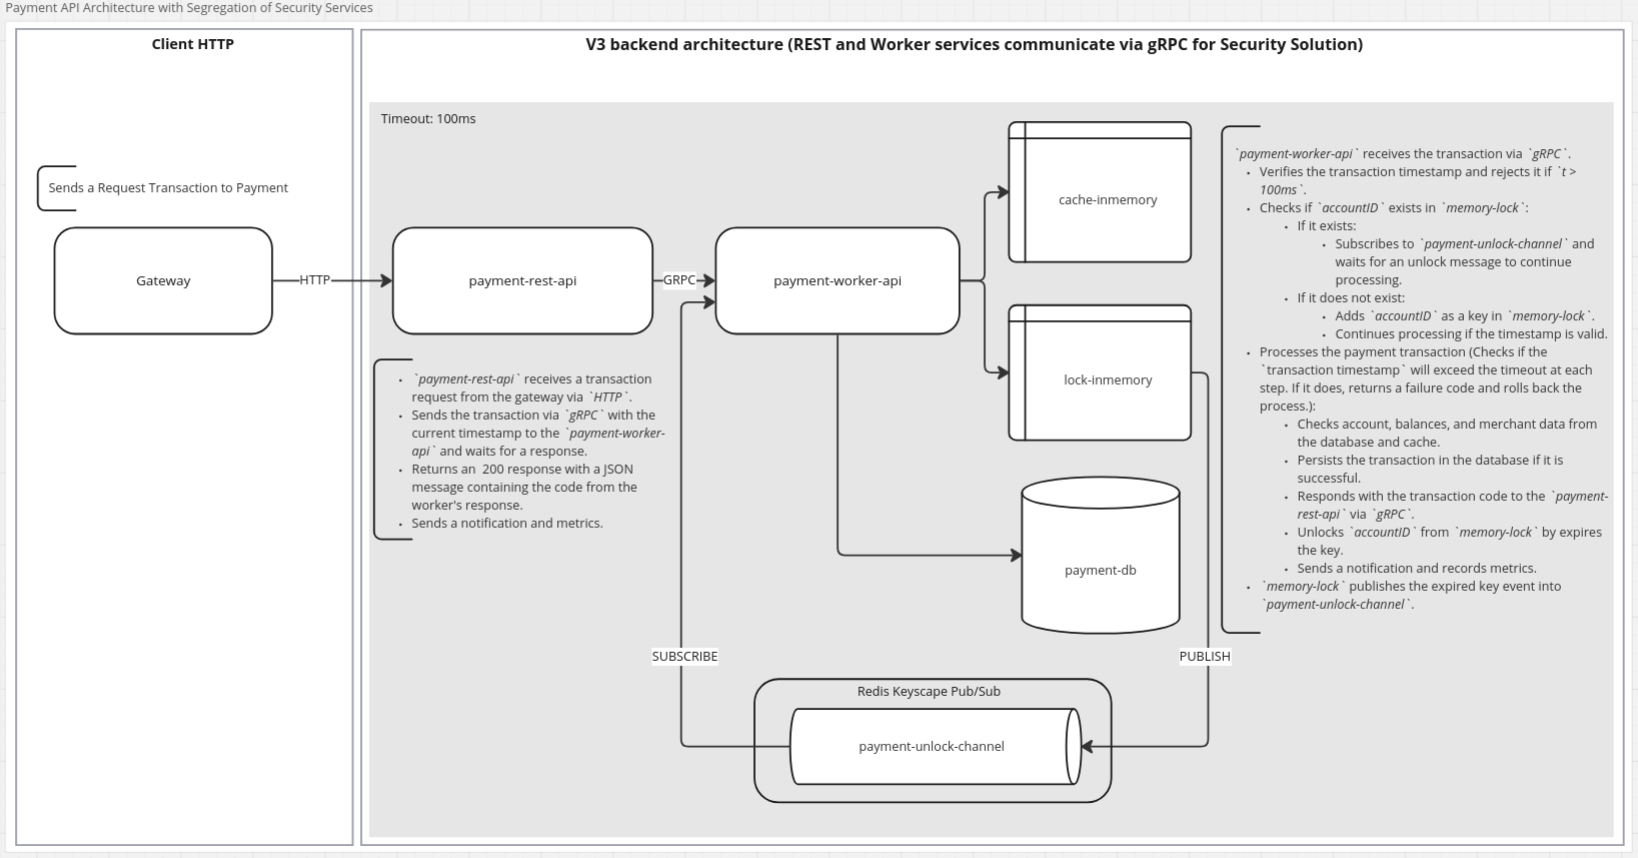
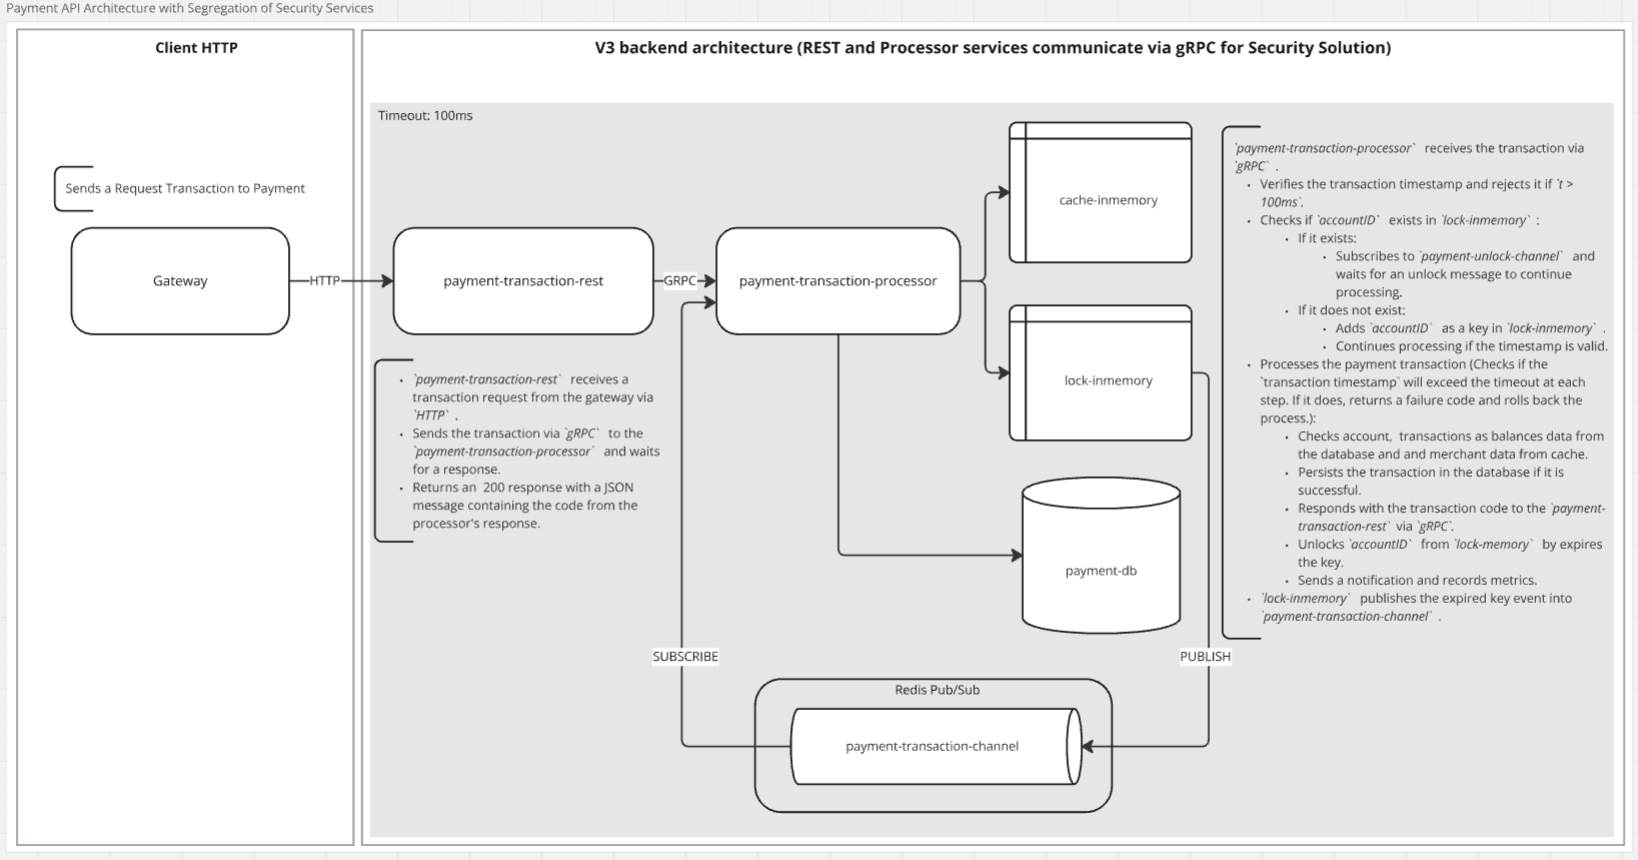
fix(docs): Acertos nos diagramas, README e ADR

diff --git a/README.md b/README.md
@@ -15,7 +15,7 @@
     https://devicon.dev/
     https://simpleicons.org/
 -->
-[<img src="./docs/assets/images/icons/go.svg" width="25px" height="25px" alt="Go Logo" title="Go">](https://go.dev/) [<img src="./docs/assets/images/icons/gin.svg" width="25px" height="25px" alt="Gin Logo" title="Gin">](https://gin-gonic.com/) [<img src="./docs/assets/images/icons/postgresql.svg" width="25px" height="25px" alt="PostgreSql Logo" title="PostgreSql">](https://www.postgresql.org/) [<img src="./docs/assets/images/icons/redis.svg" width="25px" height="25px" alt="Redis Logo" title="Redis">](https://redis.com/) [<img src="./docs/assets/images/icons/grpc.svg" width="45px" alt="gRPC Logo" title="gRPC">](https://grpc.io/) [<img src="./docs/assets/images/icons/docker.svg" width="25px" height="25px" alt="Docker Logo" title="Docker">](https://www.docker.com/) [<img src="./docs/assets/images/icons/ubuntu.svg" width="25px" height="25px Logo" title="Ubuntu" alt="Ubuntu" />](https://ubuntu.com/) [<img src="./docs/assets/images/icons/dotenv.svg" width="25px" height="25px" alt="Viper DotEnv Logo" title="Viper DotEnv">](https://github.com/spf13/viper) [<img src="./docs/assets/images/icons/github.svg" width="25px" height="25px" alt="GitHub Logo" title="GitHub">](https://github.com/jtonynet) [<img src="./docs/assets/images/icons/visualstudiocode.svg" width="25px" height="25px" alt="VsCode Logo" title="VsCode">](https://code.visualstudio.com/) [<img src="./docs/assets/images/icons/swagger.svg" width="25px" height="25px" alt="Swagger Logo" title="Swagger">](https://swagger.io/) [<img src="./docs/assets/images/icons/mermaidjs.svg" width="25px" height="25px" alt="MermaidJS Logo" title="MermaidJS">](https://mermaid.js.org/) [<img src="./docs/assets/images/icons/githubactions.svg" width="25px" height="25px" alt="GithubActions Logo" title="GithubActions">](https://docs.github.com/en/actions) [<img src="./docs/assets/images/icons/gatling.svg" width="35px" height="35px" alt="Gatling Logo" title="Gatling">](https://gatling.com/) [<img src="./docs/assets/images/icons/prometheus.svg" width="25px" height="25px" alt="Prometheus Logo" title="Prometheus">](https://prometheus.io/) [<img src="./docs/assets/images/icons/grafana.svg" width="25px" height="25px" alt="Grafana Logo" title="Grafana">](https://grafana.com/) 
+[<img src="./docs/assets/images/icons/go.svg" width="25px" height="25px" alt="Go Logo" title="Go">](https://go.dev/) [<img src="./docs/assets/images/icons/gin.svg" width="25px" height="25px" alt="Gin Logo" title="Gin">](https://gin-gonic.com/) [<img src="./docs/assets/images/icons/postgresql.svg" width="25px" height="25px" alt="PostgreSql Logo" title="PostgreSql">](https://www.postgresql.org/) [<img src="./docs/assets/images/icons/redis.svg" width="25px" height="25px" alt="Redis Logo" title="Redis">](https://redis.com/) [<img src="./docs/assets/images/icons/grpc.svg" width="45px" alt="gRPC Logo" title="gRPC">](https://grpc.io/) [<img src="./docs/assets/images/icons/docker.svg" width="25px" height="25px" alt="Docker Logo" title="Docker">](https://www.docker.com/) [<img src="./docs/assets/images/icons/ubuntu.svg" width="25px" height="25px Logo" title="Ubuntu" alt="Ubuntu" />](https://ubuntu.com/) [<img src="./docs/assets/images/icons/dotenv.svg" width="25px" height="25px" alt="Viper DotEnv Logo" title="Viper DotEnv">](https://github.com/spf13/viper) [<img src="./docs/assets/images/icons/github.svg" width="25px" height="25px" alt="GitHub Logo" title="GitHub">](https://github.com/jtonynet) [<img src="./docs/assets/images/icons/visualstudiocode.svg" width="25px" height="25px" alt="VsCode Logo" title="VsCode">](https://code.visualstudio.com/) [<img src="./docs/assets/images/icons/swagger.svg" width="25px" height="25px" alt="Swagger Logo" title="Swagger">](https://swagger.io/) [<img src="./docs/assets/images/icons/miro.svg" width="25px" height="25px" alt="Miro Logo" title="Miro">](https://https://miro.com/) [<img src="./docs/assets/images/icons/mermaidjs.svg" width="25px" height="25px" alt="MermaidJS Logo" title="MermaidJS">](https://mermaid.js.org/) [<img src="./docs/assets/images/icons/githubactions.svg" width="25px" height="25px" alt="GithubActions Logo" title="GithubActions">](https://docs.github.com/en/actions) <!-- [<img src="./docs/assets/images/icons/gatling.svg" width="35px" height="35px" alt="Gatling Logo" title="Gatling">](https://gatling.com/) [<img src="./docs/assets/images/icons/prometheus.svg" width="25px" height="25px" alt="Prometheus Logo" title="Prometheus">](https://prometheus.io/) [<img src="./docs/assets/images/icons/grafana.svg" width="25px" height="25px" alt="Grafana Logo" title="Grafana">](https://grafana.com/) -->
 
 <!-- 
 [<img src="./docs/assets/images/icons/nginx.svg" width="25px" height="25px" alt="nginx Logo" title="nginx">](https://nginx.org/en/) [<img src="./docs/assets/images/icons/rabbitmq.svg" width="25px" height="25px" alt="RabbitMQ Logo" title="RabbitMQ">](https://rabbitmq.com/) [<img src="./docs/assets/images/icons/grafana_loki.png" width="30px" height="30px" alt="Grafana Loki Logo" title="Grafana Loki">](https://grafana.com/oss/loki/) [<img src="./docs/assets/images/icons/jaeger.svg" width="25px" height="25px" alt="Jaeger Logo" title="Jaeger">](https://www.jaegertracing.io/) [<img src="./docs/assets/images/icons/opentelemetry.svg" width="25px" height="25px" alt="OpenTelemetry Logo" title="OpenTelemetry">](https://www.jaegertracing.io/) 
@@ -179,7 +179,7 @@ Este repositório foi criado com a intenção de propor uma possível solução 
 
 **Segregação de Serviços com gRPC**
 
-Arquitetura projetada para atender ao requisito `L4`, utilizando `Redis Keyspace Notification` para gerenciar locks em cenários de concorrência. O sistema aguarda mensagens de desbloqueio em um canal `pub/sub`, garantindo maior eficiência. A API REST está segregada do Worker, mantendo um nível adequado de segurança para os serviços internos. A solução foi desenhada para escalar conforme indicado na __Questão Aberta L4__ e na ADR [0003: gRPC e Redis Keyspace Notification em API REST e Worker para reduzir Latência e evitar Concorrência](./docs/architecture/decisions/0003-grpc-e-redis-keyspace-notification-em-api-rest-e-worker-para-reduzir-latencia-e-evitar-concorrencia.md).
+Arquitetura projetada para atender ao requisito `L4`, utilizando `Redis Keyspace Notification` para gerenciar locks em cenários de concorrência. O sistema aguarda mensagens de desbloqueio em um canal `pub/sub`, garantindo maior eficiência. A API `REST` está segregada do `Processor`, mantendo um nível adequado de segurança para os serviços internos. A solução foi desenhada para escalar conforme indicado na __Questão Aberta L4__ e na ADR [0003: gRPC e Redis Keyspace Notification em API REST e Processor para reduzir Latência e evitar Concorrência](./docs/architecture/decisions/0003-grpc-e-redis-keyspace-notification-em-api-rest-e-processor-para-reduzir-latencia-e-evitar-concorrencia.md).
 
 
 <center>
@@ -190,7 +190,7 @@ _*Para acompanhar a evolução do projeto com seus respectivos diagramas, acesse
 
 <br/>
 
-O desafio sugere `Scala`, `Kotlin` e o `paradigma de programação funcional`, evidenciando preferências, mas aceitando subscrições com outras linguagens e paradigmas. Realizarei em `Golang`, com arquitetura [`hexagonal`](https://alistair.cockburn.us/hexagonal-architecture/), por maior familiaridade e experiência além de entender que essa linguagem e arquitetura se encaixam ao desafio.
+O desafio sugere `Scala`, `Kotlin` e o `paradigma de programação funcional`, evidenciando preferências, mas aceitando subscrições com outras linguagens e paradigmas. Realizarei em `Golang`, com arquitetura [`hexagonal`](https://alistair.cockburn.us/hexagonal-architecture/), por maior familiaridade e experiência, além de ser mencionada na `job description` como parte do stack tecnológico utilizado pelo proponente. Acredito que essa combinação seja altamente compatível com os requisitos do desafio.
 
 Contudo, sou aberto a expandir minhas habilidades, e disposto a aprender e adotar novas tecnologias e paradigmas conforme necessário.
 
@@ -683,7 +683,7 @@ O diagrama de fluxo acima foi produzido após uma sessão de `Miro Board` conduz
 
 <img src="./docs/assets/images/screen_captures/miro/interview_architecture_proposal_v1.jpeg">
 
-A partir desse diagrama, construí uma segunda versão com poucas modificações, acrescentando detalhes e contexto para os que não estiveram presentes nessa sessão. Esse diagrama gerou o ADR __[0003: gRPC e Redis Keyspace Notification em API REST e Worker para reduzir Latência e evitar Concorrência](./docs/architecture/decisions/0003-grpc-e-redis-keyspace-notification-em-api-rest-e-worker-para-reduzir-latencia-e-evitar-concorrencia.md)__, visando nortear a implementação do requisito L4 neste projeto, com finalidade estritamente de treinamento.
+A partir desse diagrama, construí uma segunda versão com poucas modificações, acrescentando detalhes e contexto para os que não estiveram presentes nessa sessão. Esse diagrama gerou o ADR __[0003: gRPC e Redis Keyspace Notification em API REST e Processor para reduzir Latência e evitar Concorrência](./docs/architecture/decisions/0003-grpc-e-redis-keyspace-notification-em-api-rest-e-processor-para-reduzir-latencia-e-evitar-concorrencia.md)__, visando nortear a implementação do requisito L4 neste projeto, com finalidade estritamente de treinamento.
 
 Via de regra, o que foi discutido naquela reunião deve ser implementado.
 
@@ -717,7 +717,7 @@ Via de regra, o que foi discutido naquela reunião deve ser implementado.
 
 - [0001: Registro de Decisões de Arquitetura (ADR)](./docs/architecture/decisions/0001-registro-de-decisoes-de-arquitetura.md)
 - [0002: Go, Gin, Gorm e PostgreSQL com Arquitetura Hexagonal e TDD](./docs/architecture/decisions/0002-go-gin-gorm-e-postgres-com-arquitetura-hexagonal-tdd.md)
-- [0003: gRPC e Redis Keyspace Notification em API REST e Worker para reduzir Latência e evitar Concorrência](./docs/architecture/decisions/0003-grpc-e-redis-keyspace-notification-em-api-rest-e-worker-para-reduzir-latencia-e-evitar-concorrencia.md)
+- [0003: gRPC e Redis Keyspace Notification em API REST e Processor para reduzir Latência e evitar Concorrência](./docs/architecture/decisions/0003-grpc-e-redis-keyspace-notification-em-api-rest-e-processor-para-reduzir-latencia-e-evitar-concorrencia.md)
 - [0004: Banco Relacional Modelado Orientado a Eventos](./docs/architecture/decisions/0004-banco-relacional-modelado-de-maneira-orientada-a-eventos.md)
 
 <br/>
@@ -801,7 +801,7 @@ Contrate artistas para projetos comerciais ou mais elaborados e aprenda a ser en
 
 - Defini o modelo hexagonal pois sua abordagem de `ports` and `adapters` proporciona flexibilidade para que o sistema atenda a chamadas `http`, e possa ser facilmente estendido para outras abordagens, como processamento de `mensagens` e `pub/sub` (sugestão de solução L4), sem alterar o `core`, garantindo um sistema com separação de responsabilidades.
 
-- Para o L4, uma solução utilizando filas foi proposta, porém desconsiderada pelo proponente do desafio em uma sessão no `Miro Board` devido à latência adicional gerada. Isso fica explícito no `ADR` [0003: gRPC e Redis Keyspace Notification em API REST e Worker para reduzir latência e evitar concorrência](./docs/architecture/decisions/0003-grpc-e-redis-keyspace-notification-em-api-rest-e-worker-para-reduzir-latencia-e-evitar-concorrencia.md) e em tarefas do `Kanban` que visam implementar parte do que foi discutido no `Miro`.
+- Para o L4, uma solução utilizando filas foi proposta, porém desconsiderada pelo proponente do desafio em uma sessão no `Miro Board` devido à latência adicional gerada. Isso fica explícito no `ADR` [0003: gRPC e Redis Keyspace Notification em API REST e Processor para reduzir latência e evitar concorrência](./docs/architecture/decisions/0003-grpc-e-redis-keyspace-notification-em-api-rest-e-processor-para-reduzir-latencia-e-evitar-concorrencia.md) e em tarefas do `Kanban` que visam implementar parte do que foi discutido no `Miro`.
 
 - Foi realizado um `refactor` na estrutura das tabelas para tornar a aplicação mais robusta, criando um ponto único para inserir `transactions` e atualizar os saldos das `accounts` com base nas `categories`. Essa abordagem garante `imutabilidade` ao banco, baseada em `eventos` visa mitigar impactos de `inconsistência eventual`. Como pode ser visto no `ADR` [0004: Banco Relacional Modelado Orientado a Eventos](./docs/architecture/decisions/0004-banco-relacional-modelado-de-maneira-orientada-a-eventos.md)
 

diff --git a/docs/architecture/decisions/0003-grpc-e-redis-keyspace-notification-em-api-rest-e-processor-para-reduzir-latencia-e-evitar-concorrencia.md b/docs/architecture/decisions/0003-grpc-e-redis-keyspace-notification-em-api-rest-e-processor-para-reduzir-latencia-e-evitar-concorrencia.md
@@ -1,4 +1,4 @@
-# 3. gRPC e Redis Keyspace Notification em API REST e Worker para reduzir Latência e evitar Concorrência
+# 3. gRPC e Redis Keyspace Notification em API REST e Processor para reduzir Latência e evitar Concorrência
 
 Data: 10 de Novembro de 2024
 
@@ -90,7 +90,7 @@ As questões de protocolos e patterns e outras, embora não estejam presentes no
 
 ## Decisão
 
-Vamos utilizar [`Redis Keyspace Notifications`](https://redis.io/docs/latest/develop/use/keyspace-notifications/) para notificar desbloqueio de `locks`, segregar a API de payments em duas, uma API rest e um worker. Utilizar `gRPC` para efetuar a comunicacao entre ambas.
+Vamos utilizar [`Redis Keyspace Notifications`](https://redis.io/docs/latest/develop/use/keyspace-notifications/) para notificar desbloqueio de `locks`, segregar a API de payments em duas, uma API `rest` e um `processor`. Utilizar `gRPC` para efetuar a comunicacao entre ambas.
 
 ### Justificativa
 
@@ -103,11 +103,11 @@ Outros critérios decisivos foram segurança e isolamento.
 #### Redis
 Baixa latência e segurança para armazenar e responder de maneira distribuída ao grande volume de instâncias que o serviço pode alcançar. Solução já testada pelo mercado, amplamente utilizada, de fácil implementação.
 
-#### API REST e worker segregados
-Para garantir segurança e isolamento de nossos processos, mesmo sem utilizarmos a abordagem clássica de filas para `producers` e `workers`, iremos segregar a REST API de pagamento em `payment-rest-api` e `payment-worker-api`. Isso garantirá que os clientes da REST API não tenham acesso direto a quaisquer detalhes da execução da transação. Embora essa abordagem adicione uma complexidade adicional, o ganho obtido é evidente.
+#### API REST e Processor segregados
+Para garantir segurança e isolamento de nossos processos, mesmo sem utilizarmos a abordagem clássica de filas para `producers` e `workers`, iremos segregar a REST API de pagamento em `payment-transaction-rest` e `payment-transaction-processor`. Isso garantirá que os clientes da REST API não tenham acesso direto a quaisquer detalhes da execução da transação. Embora essa abordagem adicione uma complexidade adicional, o ganho obtido é evidente.
 
 #### gRPC
-Como vamos segregar `payment-rest-api` e `payment-worker-api`, precisamos de um protocolo leve e rápido para garantir a comunicação entre essas duas peças de software, sem impactar a latência geral do sistema. `gRPC` é a escolha mais acertada nesse cenário, na época em que este documento foi desenvolvido.
+Como vamos segregar `payment-transaction-rest` e `payment-transaction-processor`, precisamos de um protocolo leve e rápido para garantir a comunicação entre essas duas peças de software, sem impactar a latência geral do sistema. `gRPC` é a escolha mais acertada nesse cenário, na época em que este documento foi desenvolvido.
 
 #### Redis Keyspace Notification
 Ficou evidente, pelo fato de podermos publicar mensagens no momento em que uma chave do nosso `memory-lock` no `Redis` sofresse alguma deleção pelo processo ou pelo `ttl`, que o uso do `Keyspace Notification` seria uma alternativa que nos garantiria a baixa latência esperada. Seu principal `trade-off` é a não garantia da entrega (`fire and forget`). No entanto, sendo essa concorrência rara, o serviço que subscreve o `channel` para receber essa mensagem sendo confiável, e apenas instâncias da nossa API que se encontram com o processamento preso pela condição de corrida irão subscrever o `channel`, essa abordagem se demonstrou sólida e eficiente no cenário proposto.
@@ -116,7 +116,7 @@ Ficou evidente, pelo fato de podermos publicar mensagens no momento em que uma c
 
 #### Novo DIagrama Miro
 Foi inserido maior contexto ao diagrama, para que, sozinho, ele já seja expressivo (embora tenha ficado mais poluído com o texto). Os protocolos entre as APIs foram definidos, e a parte do sistema onde a latência de 100ms mais importa foi evidenciada.  
-A única alteração arquitetural feita nesse diagrama, se comparado ao da reunião, foi mover o `subscriber` para a `payment-worker-api`. Ele faz mais sentido lá, tendo em vista que a chamada gRPC é síncrona.
+A única alteração arquitetural feita nesse diagrama, se comparado ao da reunião, foi mover o `subscriber` para a `payment-transaction-processor`. Ele faz mais sentido lá, tendo em vista que a chamada gRPC é síncrona.
 
 **Patterns Utilizados:**
 - Cache Aside

diff --git a/docs/architecture/decisions/0004-banco-relacional-modelado-de-maneira-orientada-a-eventos.md b/docs/architecture/decisions/0004-banco-relacional-modelado-de-maneira-orientada-a-eventos.md
@@ -87,9 +87,9 @@ erDiagram
 
 </center>
 
-No entanto, em uma reunião com apresentação em `Miro board`, foi sugerido que esse modelo poderia não apresentar a melhor performance em um cenário de serviço com finalidade financeira, múltiplos acessos, concorrência e necessidade de baixa latência. Além disso, foi apontada uma possível `inconsistência` no modelo, uma vez que eram necessárias duas consultas (um *insert* em `transaction` e *updates* nos `balances`) para registrar uma transação. De fato, a performance em persistência ficava prejudicada.
+No entanto, em uma reunião com apresentação em `Miro Board`, foi sugerido que esse modelo poderia não apresentar a melhor performance em um cenário de serviço com finalidade financeira, concorrência e necessidade de baixa latência. Além disso, foi apontada uma possível `inconsistência` no modelo, uma vez que eram necessárias duas consultas (um *insert* em `transaction` e *updates* nos `balances`) para registrar uma transação. De fato, a performance em persistência ficava prejudicada.
 
-Embora estratégias como o uso de `transações de banco de dados` e `serviços de compensação` sejam boas abordagens para mitigar a `inconsistência`, esta ADR visa repensar e propor uma alternativa mais aderente ao modelo até então definido.
+Embora estratégias como o uso de `transações de banco de dados` e `serviços de compensação` sejam boas abordagens para mitigar a `inconsistência`, este ADR visa repensar e propor uma alternativa mais aderente ao modelo até então definido.
 
 <br/>
 
